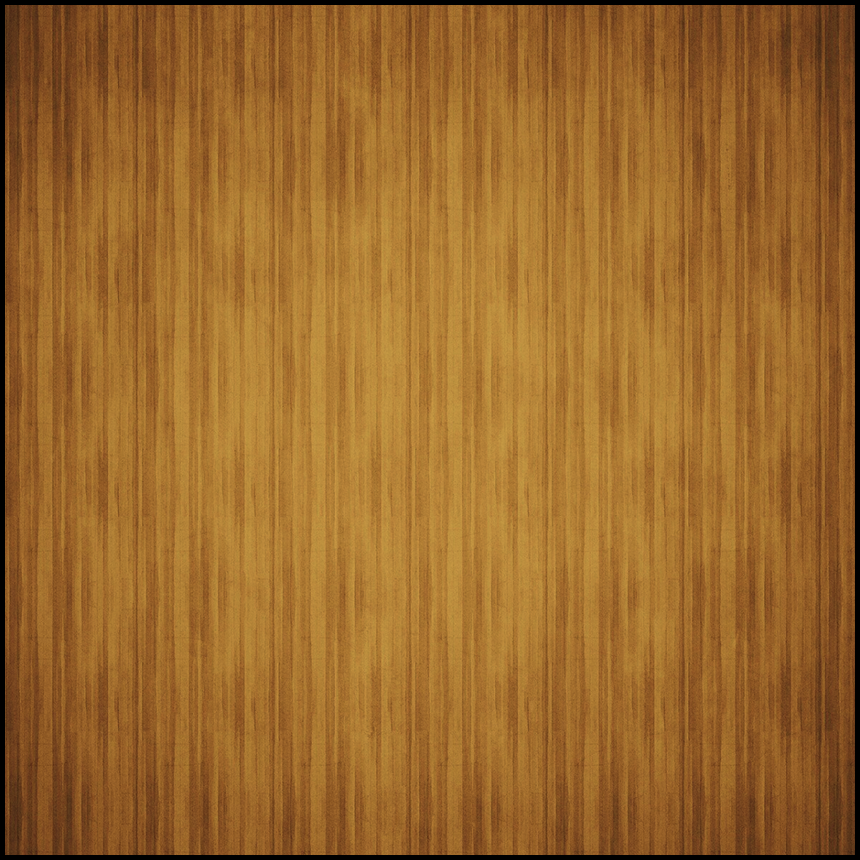
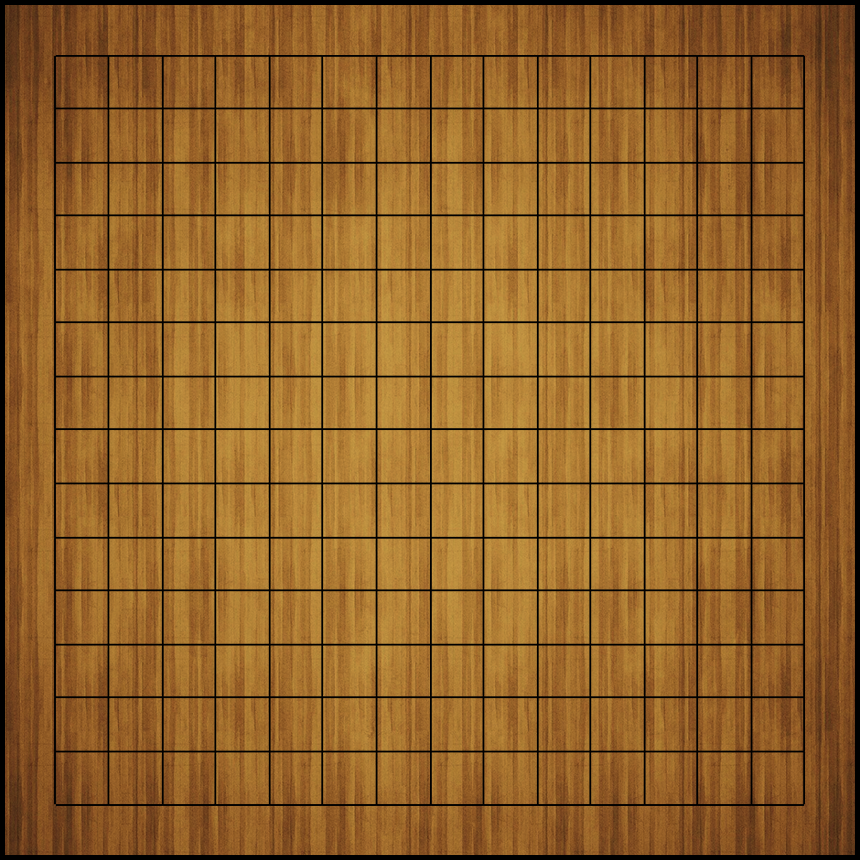
New textures

diff --git a/CourseWork/Game.cpp b/CourseWork/Game.cpp
@@ -9,7 +9,7 @@ Game::Game()
 	// the background picture is the same size with the window; takes its beginning in the up left corner
 	background = new Background(&window, sf::Vector2f(0, 0), "background.png");
 	// the field is 860x860 square; tales its beginning in the (50; 20) vector from the up left corner (0; 0)
-	field = new Field(&window, sf::Vector2f(50, 20), "field2.png");
+	field = new Field(&window, sf::Vector2f(50, 20), "field.png");
 	menu = new Menu(&window, sf::Vector2f(100, 100), "menu.png", &gilroy);
 	timer = new Timer(&window, &gilroy);
 	board = new Board(&window, sf::Vector2f(960, 485), "board.png", &gilroy);

diff --git a/CourseWork/Field.h b/CourseWork/Field.h
@@ -19,7 +19,7 @@ public:
 		chipPhantom(window, sf::Vector2f(0,0), "greenCross.png")
 	{
 		// loading chips texture
-		if (!chipsTexture.loadFromFile("chips2.png")) throw std::exception("Texture init error.");
+		if (!chipsTexture.loadFromFile("chips.png")) throw std::exception("Texture init error.");
 
 		// cells memory allocating
 		cells = new Cell** [CELLS_NUMBER];
